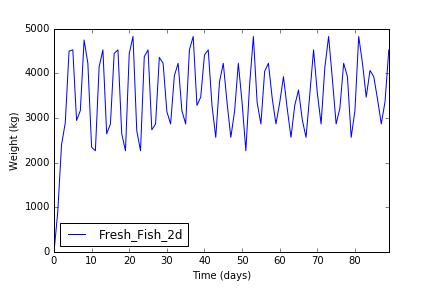
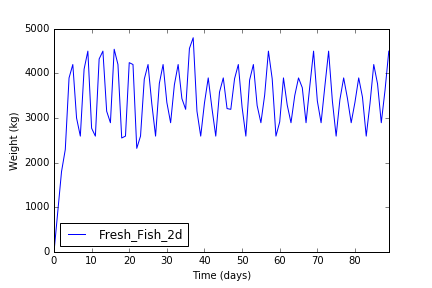
final

Changed region(s): [[0.1204, 0.125, 0.9028, 0.7188]]

diff --git a/Fish.py b/Fish.py
@@ -18,13 +18,13 @@ def create_model():
     model = Model2()
     
     
-    model.stock("Fiska-Eyjolfs_Fish_Stock",2400,
+    model.stock("Fiska-Eyjolfs_Fish_Stock",1800,
                 inflow = "Fish_In",
                 outflow = "Process_Fish")
    
     model.stock("Processed_Fish_Stock",900,
                 inflow = "Process_Fish",
-                outflow = "Fresh_Freeze")
+                outflow = "Move_To_Fresh_Fish")
     
     model.fifo("Fresh_Fish_2d",2,
                inflow = "Move_To_Fresh_Fish",
@@ -81,33 +81,30 @@ def create_model():
         return Processed_Fish
     model.equation("Process_Fish",process_Fish,"Fiska-Eyjolfs_Fish_Stock")
     
-    def fresh_freeze(time, processed_Fish_stock): 
+    def Move_To_fresh(time, processed_Fish_stock): 
         return processed_Fish_stock
-    model.equation("Fresh_Freeze", fresh_freeze, "Processed_Fish_Stock")
+    model.equation("Move_To_Fresh_Fish", Move_To_fresh, "Processed_Fish_Stock")
     
-   
-    def Fresh_Fish_2(time, Fresh_Fish_2d, processed_Fish_stock ):
-        freshFish = processed_Fish_stock
-        return freshFish
-    model.equation("Move_To_Fresh_Fish",Fresh_Fish_2,"Fresh_Fish_2d", "Processed_Fish_Stock")  
+    
     
     
     def Fish_sold_resturants(time, fish_sold_resturants ):
         #print(fish_sold_resturants)
         Weight_of_fisk_consumed_per_day = random.randint(1500,1700) #kg
-        print(Weight_of_fisk_consumed_per_day)
+
         return Weight_of_fisk_consumed_per_day
     model.equation("Restaurant_Sell",Fish_sold_resturants,"Restaurants_Fifo")
     
     def Restaurant_orders(time, Restaurant_orders, Resturant_fifo):
         demand_for_fish_per_day = 1604 #kg
         demand = demand_for_fish_per_day - Resturant_fifo
+        print(Resturant_fifo)
         return demand
     model.equation("Restaurant_Demand",Restaurant_orders, "Restaurants_Orders","Restaurants_Fifo")
     
     def Fish_sold_supermarkets(time, fish_sold_supermarkets ):
         
-        Weight_of_fisk_sold_per_day = random.randint(5900,6400) #kg
+        Weight_of_fisk_sold_per_day = random.randint(5900,6300) #kg
         return Weight_of_fisk_sold_per_day
     model.equation("Supermarket_Sell",Fish_sold_supermarkets,"Supermarkets_Stock")
 
